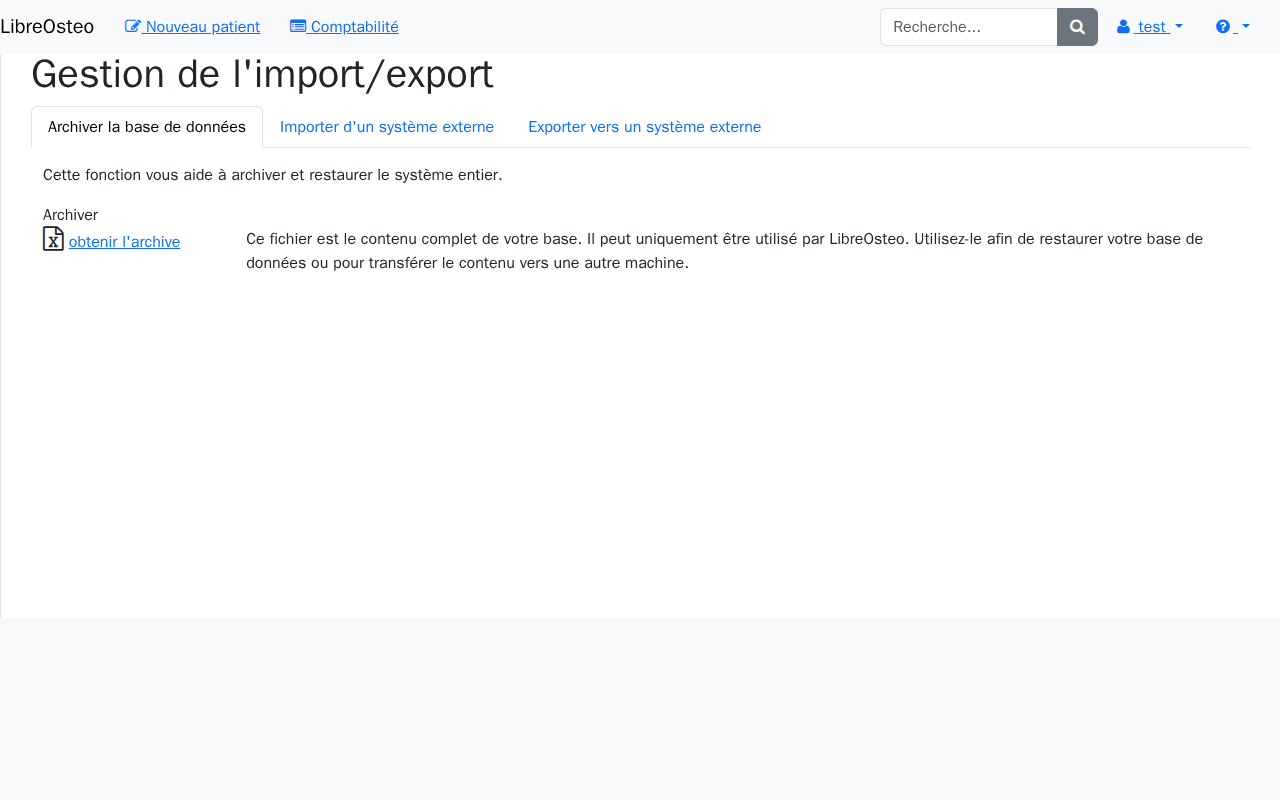
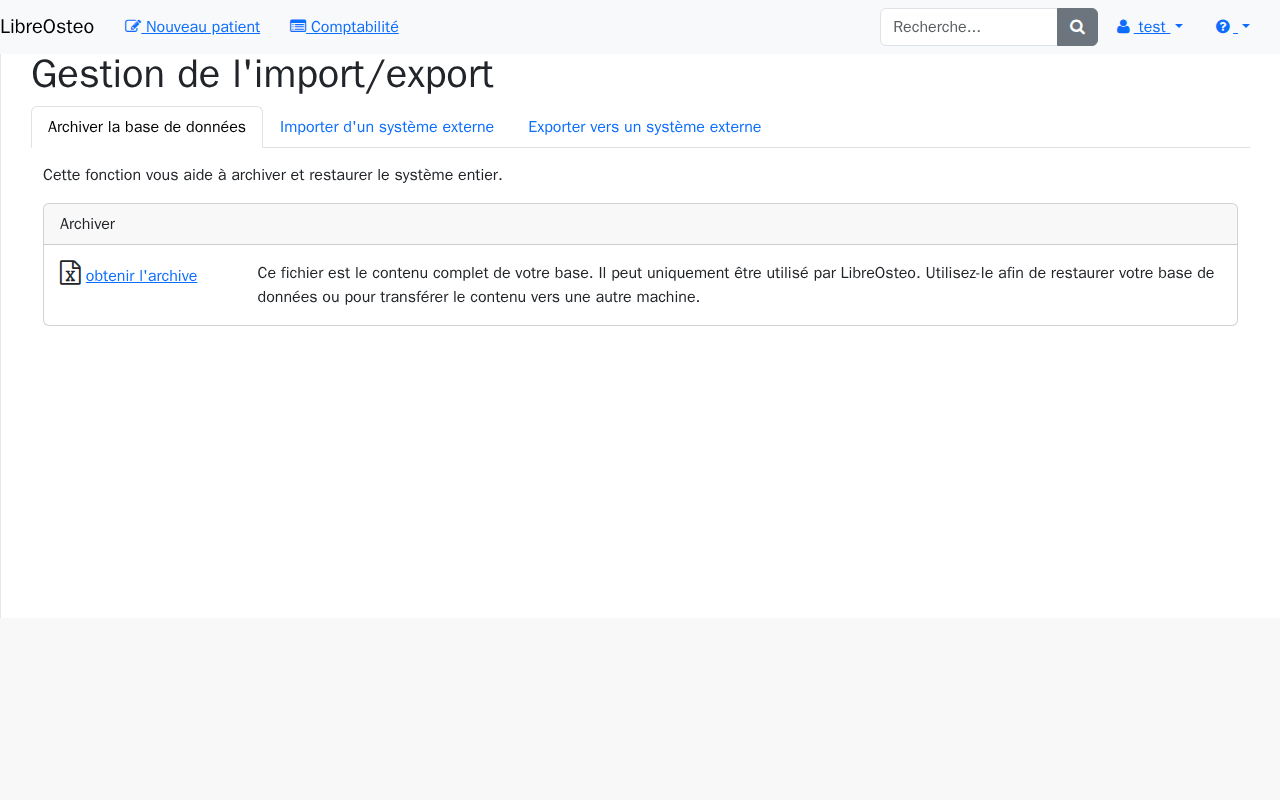
refactor: basculer pages/import-export.html sur Bootstrap 5 (D6g T11)
30 occurrences reprises (18 + 4 + 8 + 0, remesurees et confirmees exactes
au commit de base, ventilation comprise) -> 0. panel/panel-default ->
card, panel-heading -> card-header, panel-body -> card-body,
panel-warning/panel-success -> text-bg-warning/text-bg-success (deux
panneaux de fragments/import-integration.html), page-header disparait
sans equivalent (meme motif que T12/T13/T15), form-group -> mb-3,
btn-default -> btn-secondary.

well (pages/import-export.html:72, seul site du depot) -> card, l'un des
trois sites hors table de cadrage signales par le dispatch -- mais
l'annexe A du plan porte deja well -> card, donc un jeton avec
equivalent, pas un jeton "--". Renomme seul, l'encart affichait une carte
sans aucun remplissage interne (aucun card-body imbrique dans le
gabarit d'origine, a la difference des quatre autres panneaux de cet
ecran) : corrige sur pièce par l'utilitaire p-3 (meme famille de
decision que T10, form-inline -> d-flex/flex-wrap/gap-3), verifie a
l'oeil par un script Playwright jetable (non commis) puisque cet encart
n'est pas dans les deux captures versees (l'onglet actif par defaut est
Archiver, jamais Importer).

Defaut pre-existant decouvert en verifiant a l'oeil, non corrige (hors
perimetre du lot) : le paragraphe de l'onglet Importer, well compris,
s'affiche en anglais depuis D6d T8 (bcbde5d, ajout de
data-testid="note-import") -- locale/fr/LC_MESSAGES/django.po ne porte
plus le texte source exact du gabarit depuis ce commit, meme apres son
[…]

Changed region(s): [[0.1875, 0.2812, 0.9375, 0.375], [0.0312, 0.25, 0.1562, 0.375]]

diff --git a/libreosteoweb/templates/pages/import-export.html b/libreosteoweb/templates/pages/import-export.html
@@ -13,7 +13,7 @@
 
 {% block contenu %}
 <div id="page-wrapper">
-    <h1 class="page-header" data-testid="titre-import">
+    <h1 data-testid="titre-import">
         {% trans 'Managing import/export' %}
     </h1>
 
@@ -27,9 +27,9 @@
             <div class="row">
               <p>{% blocktrans %}This system helps you to archive and restore the full system.{% endblocktrans %}</p>
               <div class="col-md-12">
-                <div class="panel panel-default">
-                  <div class="panel-heading">{% trans 'Archive' %}</div>
-                  <div class="panel-body">
+                <div class="card">
+                  <div class="card-header">{% trans 'Archive' %}</div>
+                  <div class="card-body">
                     <div class="row">
                       <div class="col-md-2">
                         <i style="font-size:24px" class="fa fa-file-excel-o"></i>
@@ -69,12 +69,12 @@
                 <p>After you fill them, you upload your files with the import tool above.</p>
                 <br/>
                 <p>In order to add examinations for patients, you have to link each one with a number. If you read the Patient templates file you will see that the first column is "Number". This number should have been the same in the examination to add this examination to the patient.</p>
-                <div class="well" data-testid="note-import">Note : It have no relation with the number that you can see in the system after integration.</div>
+                <div class="card p-3" data-testid="note-import">Note : It have no relation with the number that you can see in the system after integration.</div>
                 {% endblocktrans %}
               </div>
               <div class="col-md-12">
-                <div class="panel panel-default">
-                  <div class="panel-body">
+                <div class="card">
+                  <div class="card-body">
                     <div class="row">
                       <div class="col-md-6">
                         <i style="font-size:24px" class="fa fa-file-excel-o"></i>
@@ -90,9 +90,9 @@
               </div>
             </div>
 
-            <div class="panel panel-default">
-              <div class="panel-heading">{% trans 'Import' %}</div>
-              <div class="panel-body">
+            <div class="card">
+              <div class="card-header">{% trans 'Import' %}</div>
+              <div class="card-body">
                 {# Televersement multipart **natif** : `hx-encoding` suffit, `ng-file-upload` #}
                 {# n'a plus de role ici. `show:top` remplace les quatre appels a #}
                 {# `animatescroll`, dont deux etaient des `<script>` en ligne dans le #}
@@ -106,13 +106,13 @@
                       hx-disabled-elt="find button[type='submit']"
                       hx-request='{"timeout": 180000}'>
                   {% csrf_token %}
-                  <div class="form-group">
+                  <div class="mb-3">
                     <label for="patient-file">{% trans 'Patient file' %}</label>
                     <input type="file" id="patient-file" name="patientFile" accept=".csv" required>
                     <label for="examination-file">{% trans 'Examination file' %}</label>
                     <input type="file" id="examination-file" name="examinationFile" accept=".csv">
                   </div>
-                  <button class="btn btn-default" type="submit">{% trans 'Analyze' %}</button>
+                  <button class="btn btn-secondary" type="submit">{% trans 'Analyze' %}</button>
                   <p class="bg-success htmx-indicator" id="analyse-en-cours"><i class="fa fa-cog fa-spin fa-lg fa-fw"></i> {% trans 'Loading in progress'%}</p>
                 </form>
               </div>
@@ -131,8 +131,8 @@
             <div class="row">
               <p>{% blocktrans %}Here you can download the full list of patients and examinations as Excel files{% endblocktrans %}</p>
               <div class="col-md-12">
-                <div class="panel panel-default">
-                  <div class="panel-body">
+                <div class="card">
+                  <div class="card-body">
                     <div class="row">
                       {# Les deux URL etaient ecrites **en dur** (`/api/patients.xlsx`, #}
                       {# `/api/examinations.xlsx`) : la reecriture du gabarit les passe par #}

diff --git a/libreosteoweb/templates/pages/fragments/import-integration.html b/libreosteoweb/templates/pages/fragments/import-integration.html
@@ -2,9 +2,9 @@
 {# **Un** panneau, choisi par la vue, la ou `import-file.html` en portait quatre, tous #}
 {# presents dans le DOM et masques par `ng-show` (C6). #}
 {% if avec_erreurs %}
-<div class="panel panel-warning">
-  <div class="panel-heading" data-testid="import-avec-erreurs-titre">{% trans 'Importing succeed but some errors' %}</div>
-  <div class="panel-body" data-testid="import-avec-erreurs-detail">
+<div class="card text-bg-warning">
+  <div class="card-header" data-testid="import-avec-erreurs-titre">{% trans 'Importing succeed but some errors' %}</div>
+  <div class="card-body" data-testid="import-avec-erreurs-detail">
     <p>{{ rapport.patient.imported }} {% trans 'lines imported from file patient' %}</p>
     {% if erreurs_patient %}
     <p>{% trans 'Errors when integrating patients' %}</p>
@@ -29,9 +29,9 @@
   </div>
 </div>
 {% else %}
-<div class="panel panel-success">
-  <div class="panel-heading" data-testid="import-reussi-titre">{% trans 'Importing succeed' %}</div>
-  <div class="panel-body" data-testid="import-reussi-detail">
+<div class="card text-bg-success">
+  <div class="card-header" data-testid="import-reussi-titre">{% trans 'Importing succeed' %}</div>
+  <div class="card-body" data-testid="import-reussi-detail">
     <p>{{ rapport.patient.imported }} {% trans 'lines imported from file patient' %}</p>
   </div>
 </div>

diff --git a/libreosteoweb/templates/pages/fragments/import-analyse.html b/libreosteoweb/templates/pages/fragments/import-analyse.html
@@ -1,9 +1,9 @@
 {% load i18n %}
 {# Le panneau de resultat d'analyse. **La reponse est le panneau** : il n'existe pas avant #}
 {# l'analyse, la ou `ng-show` le laissait dans le DOM avec tout son texte (C6, F12). #}
-<div class="panel panel-default">
-  <div class="panel-heading">{% trans 'Analyze result' %}</div>
-  <div class="panel-body">
+<div class="card">
+  <div class="card-header">{% trans 'Analyze result' %}</div>
+  <div class="card-body">
 
     {% if patient %}
     <div id="patient-file-analyze">

diff --git a/docs/recette.md b/docs/recette.md
@@ -4158,11 +4158,42 @@ et `import-export-375.png`.
 **Étapes**
 
 1. Menu utilisateur → *Import/export*, fenêtre à **1 280 px de large**.
-   Attendu : <écrit par T11>
+   Attendu : le titre **Gestion de l'import/export** est entièrement visible. Sous lui,
+   trois onglets tiennent sur une même ligne, séparés par un filet horizontal :
+   *Archiver la base de données* (actif, encadré), *Importer d'un système externe* et
+   *Exporter vers un système externe*. L'onglet actif ouvre par défaut sur *Archiver la
+   base de données* — jamais sur *Importer*, quel que soit le compte connecté (D6g, brief
+   T11 : `onglet_initial` n'est jamais transmis au composant, défaut connu et versé d'un
+   lot antérieur, non corrigé ici). Sous la phrase d'introduction, un encadré unique
+   *Archiver* : un bandeau d'en-tête gris clair portant son titre, puis un corps blanc où
+   l'icône de fichier Excel et le lien **obtenir l'archive** sont à gauche, le paragraphe
+   descriptif à droite sur la même ligne. Aucune barre de défilement horizontale.
 2. Ramener la fenêtre à **375 px de large**.
-   Attendu : <écrit par T11>
+   Attendu : le titre reste entièrement visible. Le menu principal se réduit à une icône
+   ☰, les trois onglets restent lisibles mais se répartissent sur plusieurs lignes (leurs
+   libellés sont plus longs qu'à l'écran du profil, R-VIS-11) — comportement attendu du
+   passage à la ligne de `.nav-tabs`, pas une régression. L'encadré *Archiver* garde son
+   bandeau d'en-tête ; à l'intérieur, l'icône et le lien **obtenir l'archive** passent
+   au-dessus du paragraphe descriptif au lieu d'être côte à côte. Aucune barre de
+   défilement horizontale.
 
-**Ne couvre pas** : <écrit par T11>
+**Ne couvre pas** : les onglets *Importer d'un système externe* et *Exporter vers un
+système externe* — les deux captures de référence ne montrent que l'onglet ouvert par
+défaut (*Archiver*), conformément au script `capture_socle_visuel.py`, qui ne clique aucun
+onglet sur cet écran. Ces deux onglets sont couverts par le geste
+(`tests/functional/test_import_csv.py`, cinq tests, dont six clics sur l'onglet *Importer*)
+et ont été vérifiés par l'œil pendant cette tâche, sans capture retenue (budget de 32
+fichiers, 2 par écran) : à 1 280 comme à 375 px, l'encart *Note* de l'onglet *Importer*
+(ex-`well`, devenu `card p-3`, seul site de cette famille du dépôt) est lisible, encadré et
+padded comme les autres encarts de l'écran ; les deux encarts de gabarits téléchargeables
+(*Importer*, *Exporter*) affichent leurs cartes avec bandeau d'en-tête et icônes visibles ;
+aucun défilement horizontal constaté à aucune des deux largeurs sur ces deux onglets non
+plus. **Défaut pré-existant, non corrigé ici** : le paragraphe descriptif de l'onglet
+*Importer* (dont la note ci-dessus) s'affiche en anglais et non en français, y compris
+avant cette tâche — le catalogue de traduction (`locale/fr/LC_MESSAGES/django.po`) ne
+porte plus le texte source exact du gabarit depuis l'ajout de `data-testid="note-import"`
+(D6d T8, `bcbde5d`), et ce lot ne touche pas au catalogue (`CLAUDE.md` du lot, Global
+Constraints).
 
 ### R-VIS-11 — Socle visuel : profil utilisateur
 
